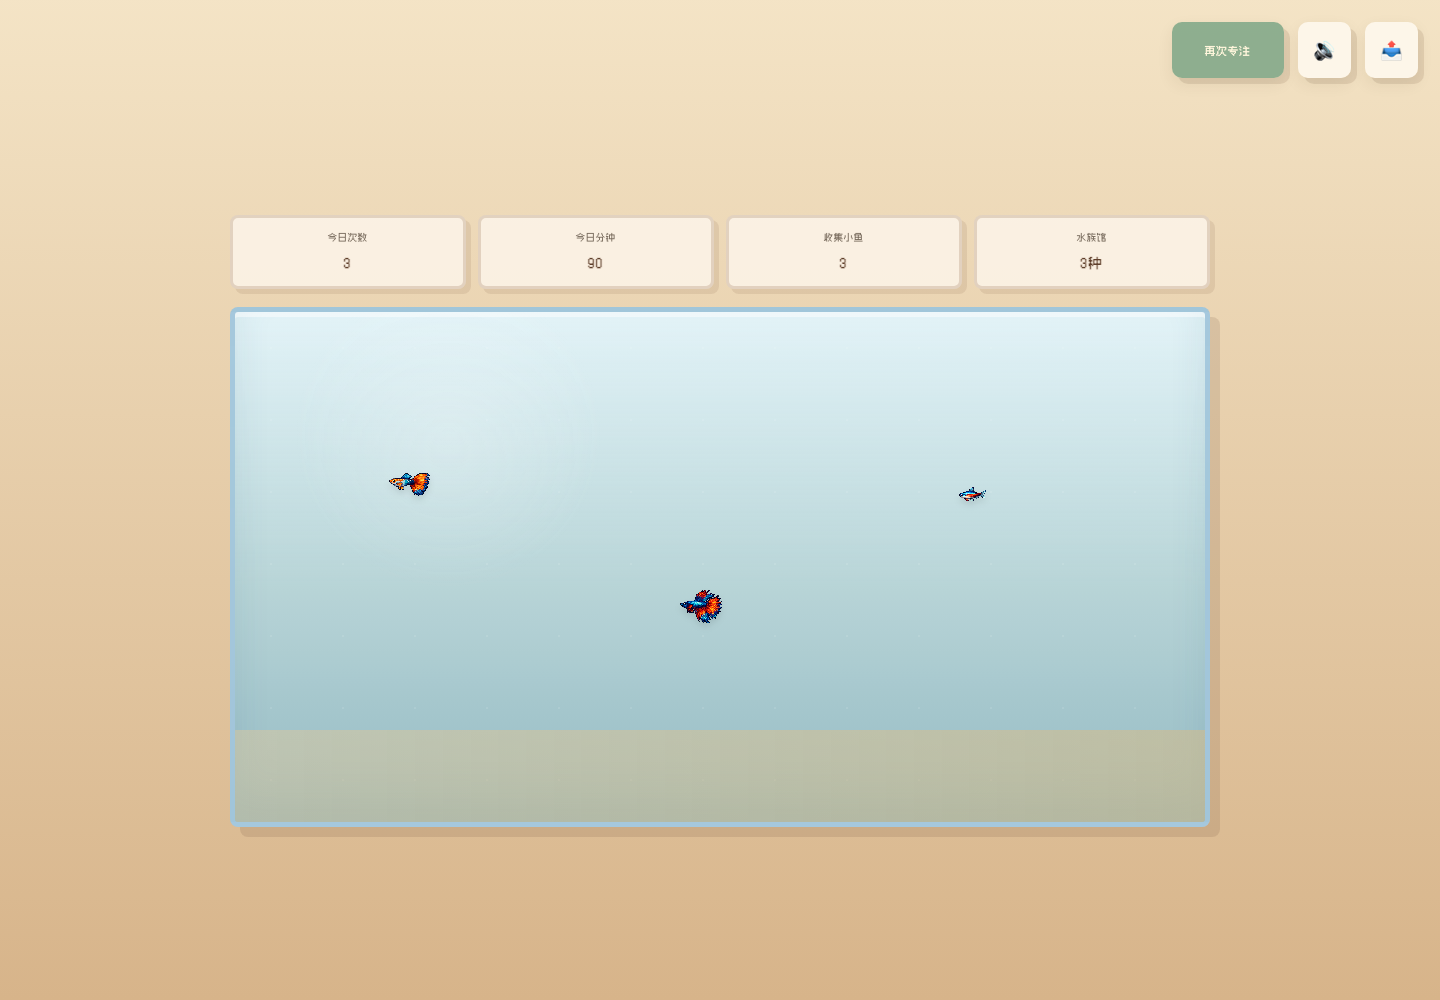
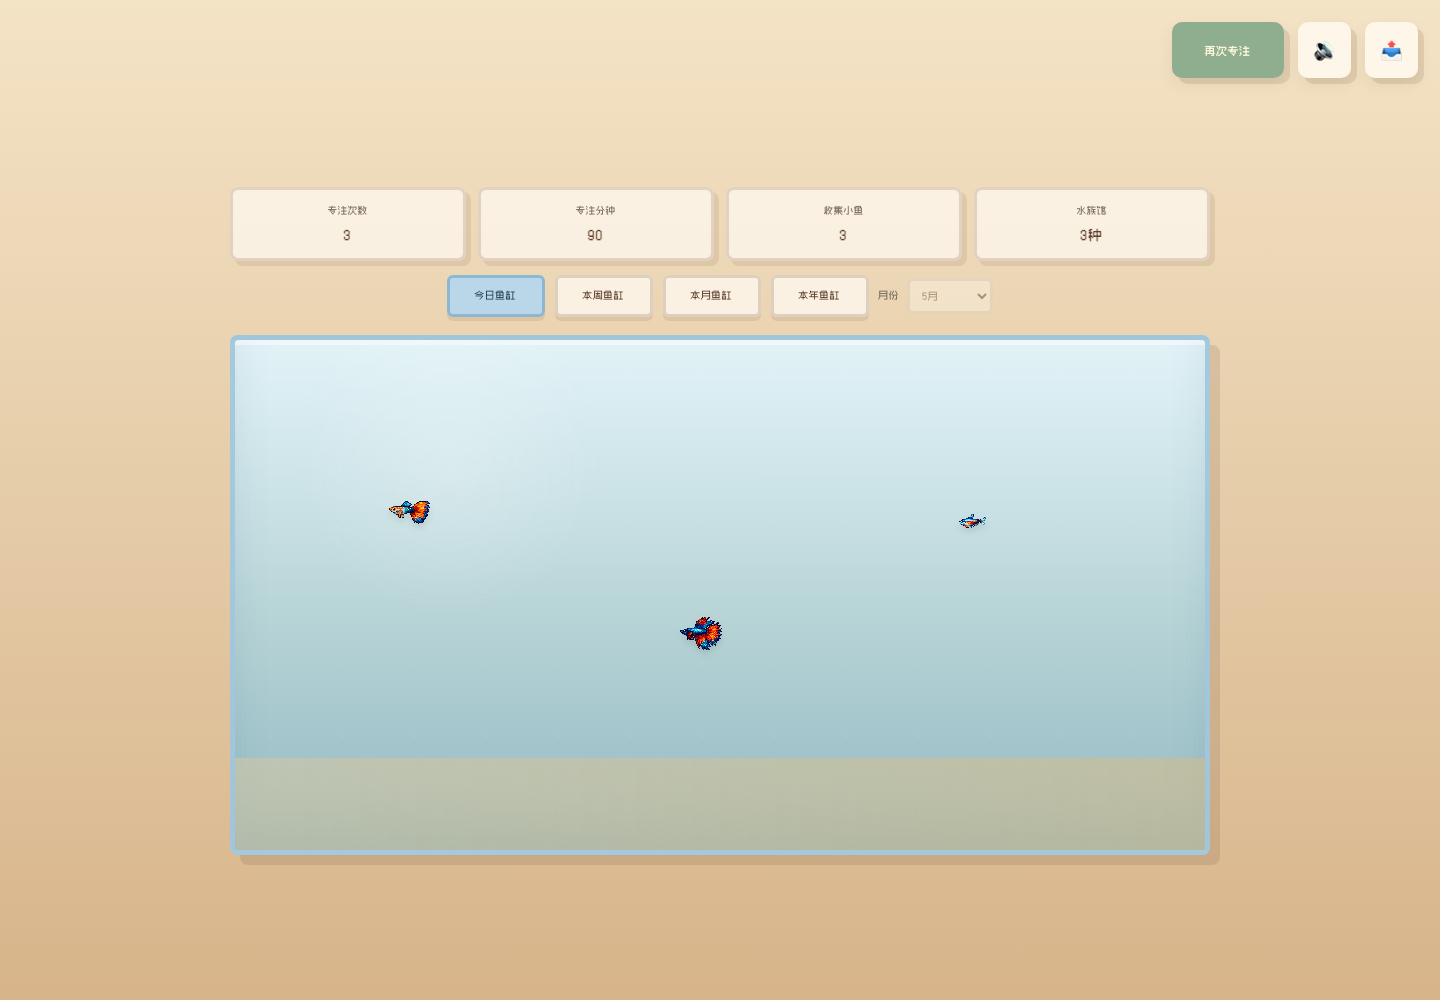
Add aquarium period filters

diff --git a/script.js b/script.js
@@ -77,6 +77,8 @@ const totalFishStat = document.getElementById("totalFishStat");
 const tankCapacityStat = document.getElementById("tankCapacityStat");
 const aquariumStage = document.getElementById("aquariumStage");
 const aquariumEmptyState = document.getElementById("aquariumEmptyState");
+const aquariumViewButtons = document.querySelectorAll(".aquarium-view-btn");
+const aquariumMonthSelect = document.getElementById("aquariumMonthSelect");
 const TEST_DURATION_SECONDS = 5;
 const focusMessages = {
   emptyTask: "先写下一件小小的事吧，只要一件就好。",
@@ -105,6 +107,8 @@ let sessionHistory = [];
 let hasClaimedToday = false;
 let lastClaimDate = "";
 let lastFocusedElement = null;
+let aquariumViewMode = "today";
+let selectedAquariumMonth = new Date().getMonth();
 
 function showPage(pageName) {
   Object.values(pages).forEach((page) => page.classList.remove("active"));
@@ -182,6 +186,38 @@ focusAgainBtn.addEventListener("click", () => {
   timeLeft = selectedDurationSeconds;
   updateTimerDisplay();
   showPage("input");
+});
+
+aquariumViewButtons.forEach((button) => {
+  button.addEventListener("click", () => {
+    aquariumViewMode = button.dataset.viewMode;
+
+    aquariumViewButtons.forEach((item) => {
+      item.classList.remove("active");
+      item.setAttribute("aria-pressed", "false");
+    });
+
+    button.classList.add("active");
+    button.setAttribute("aria-pressed", "true");
+    updateMonthFilterState();
+    renderTanks();
+    renderTankStats();
+  });
+});
+
+aquariumMonthSelect.addEventListener("change", () => {
+  selectedAquariumMonth = Number(aquariumMonthSelect.value);
+  aquariumViewMode = "month";
+
+  aquariumViewButtons.forEach((item) => {
+    const isMonthButton = item.dataset.viewMode === "month";
+    item.classList.toggle("active", isMonthButton);
+    item.setAttribute("aria-pressed", String(isMonthButton));
+  });
+
+  updateMonthFilterState();
+  renderTanks();
+  renderTankStats();
 });
 
 function getRandomFish() {
@@ -311,6 +347,91 @@ function getDateStringFromIso(isoString) {
   return `${year}-${month}-${day}`;
 }
 
+function getStartOfWeek(date) {
+  const start = new Date(date);
+  const day = start.getDay();
+  const diff = day === 0 ? -6 : 1 - day;
+  start.setDate(start.getDate() + diff);
+  start.setHours(0, 0, 0, 0);
+  return start;
+}
+
+function isSameDay(date, compareDate) {
+  return date.getFullYear() === compareDate.getFullYear()
+    && date.getMonth() === compareDate.getMonth()
+    && date.getDate() === compareDate.getDate();
+}
+
+function isFishInCurrentAquariumView(fish) {
+  const earnedDate = new Date(fish.earnedAt);
+
+  if (Number.isNaN(earnedDate.getTime())) {
+    return false;
+  }
+
+  const now = new Date();
+
+  if (aquariumViewMode === "today") {
+    return isSameDay(earnedDate, now);
+  }
+
+  if (aquariumViewMode === "week") {
+    const startOfWeek = getStartOfWeek(now);
+    const endOfWeek = new Date(startOfWeek);
+    endOfWeek.setDate(startOfWeek.getDate() + 7);
+    return earnedDate >= startOfWeek && earnedDate < endOfWeek;
+  }
+
+  if (aquariumViewMode === "month") {
+    return earnedDate.getFullYear() === now.getFullYear()
+      && earnedDate.getMonth() === selectedAquariumMonth;
+  }
+
+  if (aquariumViewMode === "year") {
+    return earnedDate.getFullYear() === now.getFullYear();
+  }
+
+  return true;
+}
+
+function getVisibleAquariumFish() {
+  return aquariumFish
+    .map((entry, originalIndex) => ({
+      ...normalizeTankFishRecord(entry),
+      originalIndex
+    }))
+    .filter(isFishInCurrentAquariumView);
+}
+
+function getAquariumViewLabel() {
+  const monthLabel = `${selectedAquariumMonth + 1}月`;
+  const labels = {
+    today: "今日鱼缸",
+    week: "本周鱼缸",
+    month: `${monthLabel}鱼缸`,
+    year: "本年鱼缸"
+  };
+
+  return labels[aquariumViewMode] || "当前鱼缸";
+}
+
+function updateMonthFilterState() {
+  aquariumMonthSelect.disabled = aquariumViewMode !== "month";
+}
+
+function populateMonthFilter() {
+  const monthNames = [
+    "1月", "2月", "3月", "4月", "5月", "6月",
+    "7月", "8月", "9月", "10月", "11月", "12月"
+  ];
+
+  aquariumMonthSelect.innerHTML = monthNames.map((monthName, index) => {
+    return `<option value="${index}">${monthName}</option>`;
+  }).join("");
+  aquariumMonthSelect.value = String(selectedAquariumMonth);
+  updateMonthFilterState();
+}
+
 function resetDailyStatusIfNeeded() {
   const today = getTodayString();
 
@@ -340,16 +461,17 @@ function migrateTanksToAquariumFish() {
 }
 
 function renderTanks() {
-  const fishRecords = aquariumFish.map(normalizeTankFishRecord);
+  const fishRecords = getVisibleAquariumFish();
 
   aquariumEmptyState.hidden = fishRecords.length > 0;
+  aquariumEmptyState.textContent = `${getAquariumViewLabel()}还很安静。完成一次专注后，小鱼会出现在这里。`;
   aquariumStage.querySelectorAll(".aquarium-fish").forEach((fishEl) => fishEl.remove());
 
   fishRecords.forEach((fish, index) => {
     const fishButton = document.createElement("button");
     fishButton.className = `aquarium-fish fish-history-trigger ${fish.size === "small" ? "aquarium-fish-small" : "aquarium-fish-medium"}`;
     fishButton.type = "button";
-    fishButton.dataset.fishIndex = String(index);
+    fishButton.dataset.fishIndex = String(fish.originalIndex);
     fishButton.style.left = `${fish.x}%`;
     fishButton.style.top = `${fish.y}%`;
     fishButton.style.setProperty("--swim-delay", `${(index % 6) * 0.35}s`);
@@ -374,7 +496,7 @@ function getUniqueCollectedFishCount() {
 }
 
 function getTotalCollectedFishCount() {
-  return getAquariumFishCount();
+  return getVisibleAquariumFish().length;
 }
 
 function getTodaySessions() {
@@ -386,15 +508,20 @@ function getTodaySessions() {
 }
 
 function renderTankStats() {
-  const todaySessions = getTodaySessions();
-  const todayMinutes = todaySessions.reduce((total, session) => {
+  const visibleFish = getVisibleAquariumFish();
+  const visibleSessionIds = new Set(visibleFish.map((fish) => fish.sessionId));
+  const visibleSessions = sessionHistory.filter((session) => {
+    return visibleSessionIds.has(session.id);
+  });
+  const visibleMinutes = visibleSessions.reduce((total, session) => {
     return total + Number(session.durationMinutes || 0);
   }, 0);
+  const visibleUniqueIds = new Set(visibleFish.map((fish) => fish.fishId));
 
-  todaySessionsStat.textContent = String(todaySessions.length);
-  todayMinutesStat.textContent = String(todayMinutes);
+  todaySessionsStat.textContent = String(visibleSessions.length);
+  todayMinutesStat.textContent = String(visibleMinutes);
   totalFishStat.textContent = String(getTotalCollectedFishCount());
-  tankCapacityStat.textContent = `${getUniqueCollectedFishCount()}种`;
+  tankCapacityStat.textContent = `${visibleUniqueIds.size}种`;
 }
 
 function getTankFishByTrigger(trigger) {
@@ -608,6 +735,7 @@ loadGameData();
 resetDailyStatusIfNeeded();
 timeLeft = selectedDurationSeconds;
 migrateTanksToAquariumFish();
+populateMonthFilter();
 renderTanks();
 renderTankStats();
 saveGameData();

diff --git a/index.html b/index.html
@@ -82,11 +82,11 @@
         <h2 id="tankTitle" class="sr-only">我的专注鱼缸</h2>
         <div class="tank-stats" aria-label="专注统计">
           <div class="stat-item">
-            <span class="stat-label">今日次数</span>
+            <span class="stat-label">专注次数</span>
             <strong id="todaySessionsStat" class="stat-value" aria-live="polite">0</strong>
           </div>
           <div class="stat-item">
-            <span class="stat-label">今日分钟</span>
+            <span class="stat-label">专注分钟</span>
             <strong id="todayMinutesStat" class="stat-value" aria-live="polite">0</strong>
           </div>
           <div class="stat-item">
@@ -97,6 +97,17 @@
             <span class="stat-label">水族馆</span>
             <strong id="tankCapacityStat" class="stat-value" aria-live="polite">0条</strong>
           </div>
+        </div>
+
+        <div class="aquarium-view-controls" aria-label="切换鱼缸时间范围">
+          <button class="aquarium-view-btn active" type="button" data-view-mode="today" aria-pressed="true">今日鱼缸</button>
+          <button class="aquarium-view-btn" type="button" data-view-mode="week" aria-pressed="false">本周鱼缸</button>
+          <button class="aquarium-view-btn" type="button" data-view-mode="month" aria-pressed="false">本月鱼缸</button>
+          <button class="aquarium-view-btn" type="button" data-view-mode="year" aria-pressed="false">本年鱼缸</button>
+          <label class="month-filter-label" for="aquariumMonthSelect">
+            <span>月份</span>
+            <select id="aquariumMonthSelect" class="month-filter-select" aria-label="选择月份"></select>
+          </label>
         </div>
 
         <div id="aquariumStage" class="aquarium-stage" aria-label="水族馆中的小鱼">

diff --git a/style.css b/style.css
@@ -496,6 +496,62 @@ button:focus-visible,
   margin: 42px auto 8px;
 }
 
+.aquarium-view-controls {
+  display: flex;
+  justify-content: center;
+  align-items: center;
+  flex-wrap: wrap;
+  gap: 10px;
+  width: 100%;
+  max-width: 980px;
+  margin: 14px auto 0;
+}
+
+.aquarium-view-btn,
+.month-filter-select {
+  border: 3px solid rgba(95, 63, 43, 0.18);
+  border-radius: 6px;
+  background: rgba(255, 250, 242, 0.76);
+  color: var(--wood-dark);
+  font-family: "ZpixCN", sans-serif;
+  font-size: 0.6rem;
+  line-height: 1.8;
+}
+
+.aquarium-view-btn {
+  min-width: 98px;
+  padding: 9px 10px;
+  cursor: pointer;
+  box-shadow: 0 4px 0 rgba(95, 63, 43, 0.1);
+}
+
+.aquarium-view-btn:hover,
+.aquarium-view-btn.active {
+  background: var(--pixel-blue);
+  border-color: var(--pixel-blue-deep);
+  color: #234052;
+}
+
+.month-filter-label {
+  display: flex;
+  align-items: center;
+  gap: 8px;
+  color: #7c6f61;
+  font-family: "ZpixCN", sans-serif;
+  font-size: 0.6rem;
+  line-height: 1.8;
+}
+
+.month-filter-select {
+  min-width: 86px;
+  padding: 9px 8px;
+}
+
+.month-filter-select:disabled {
+  cursor: not-allowed;
+  opacity: 0.46;
+}
+
 .stat-item {
   min-height: 74px;
   padding: 12px 10px;
@@ -743,6 +799,15 @@ button:focus-visible,
 
   .aquarium-stage {
     min-height: 430px;
+  }
+
+  .aquarium-view-controls {
+    justify-content: stretch;
+  }
+
+  .aquarium-view-btn,
+  .month-filter-label {
+    flex: 1 1 42%;
   }
 }
 
